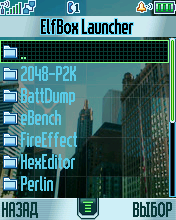
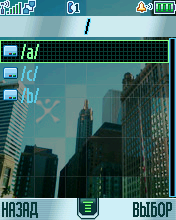
[ElfBox]: Update screenshots

diff --git a/ElfBox/ReadMe.md b/ElfBox/ReadMe.md
@@ -13,7 +13,7 @@ A simple "ElfBox" ELF-applications launcher.
 
 ## Screenshots from Motorola ROKR E1
 
-![Screenshot 1 of ElfBox from Motorola ROKR E1](../images/Screenshot_ElfBox_E1_1.png) ![Screenshot 2 of ElfBox from Motorola ROKR E1](../images/Screenshot_ElfBox_E1_2.png) ![Screenshot 3 of ElfBox from Motorola ROKR E1](../images/Screenshot_ElfBox_E1_3.png) ![Screenshot 4 of ElfBox from Motorola ROKR E1](../images/Screenshot_ElfBox_E1_4.png)
+![Screenshot 1 of ElfBox from Motorola ROKR E1](../images/Screenshot_ElfBox_E1_1.png) ![Screenshot 2 of ElfBox from Motorola ROKR E1](../images/Screenshot_ElfBox_E1_2.png) ![Screenshot 3 of ElfBox from Motorola ROKR E1](../images/Screenshot_ElfBox_E1_3.png) ![Screenshot 4 of ElfBox from Motorola ROKR E1](../images/Screenshot_ElfBox_E1_4.png) ![Screenshot 5 of ElfBox from Motorola ROKR E1](../images/Screenshot_ElfBox_E1_5.png)
 
 ## ELF files
 
